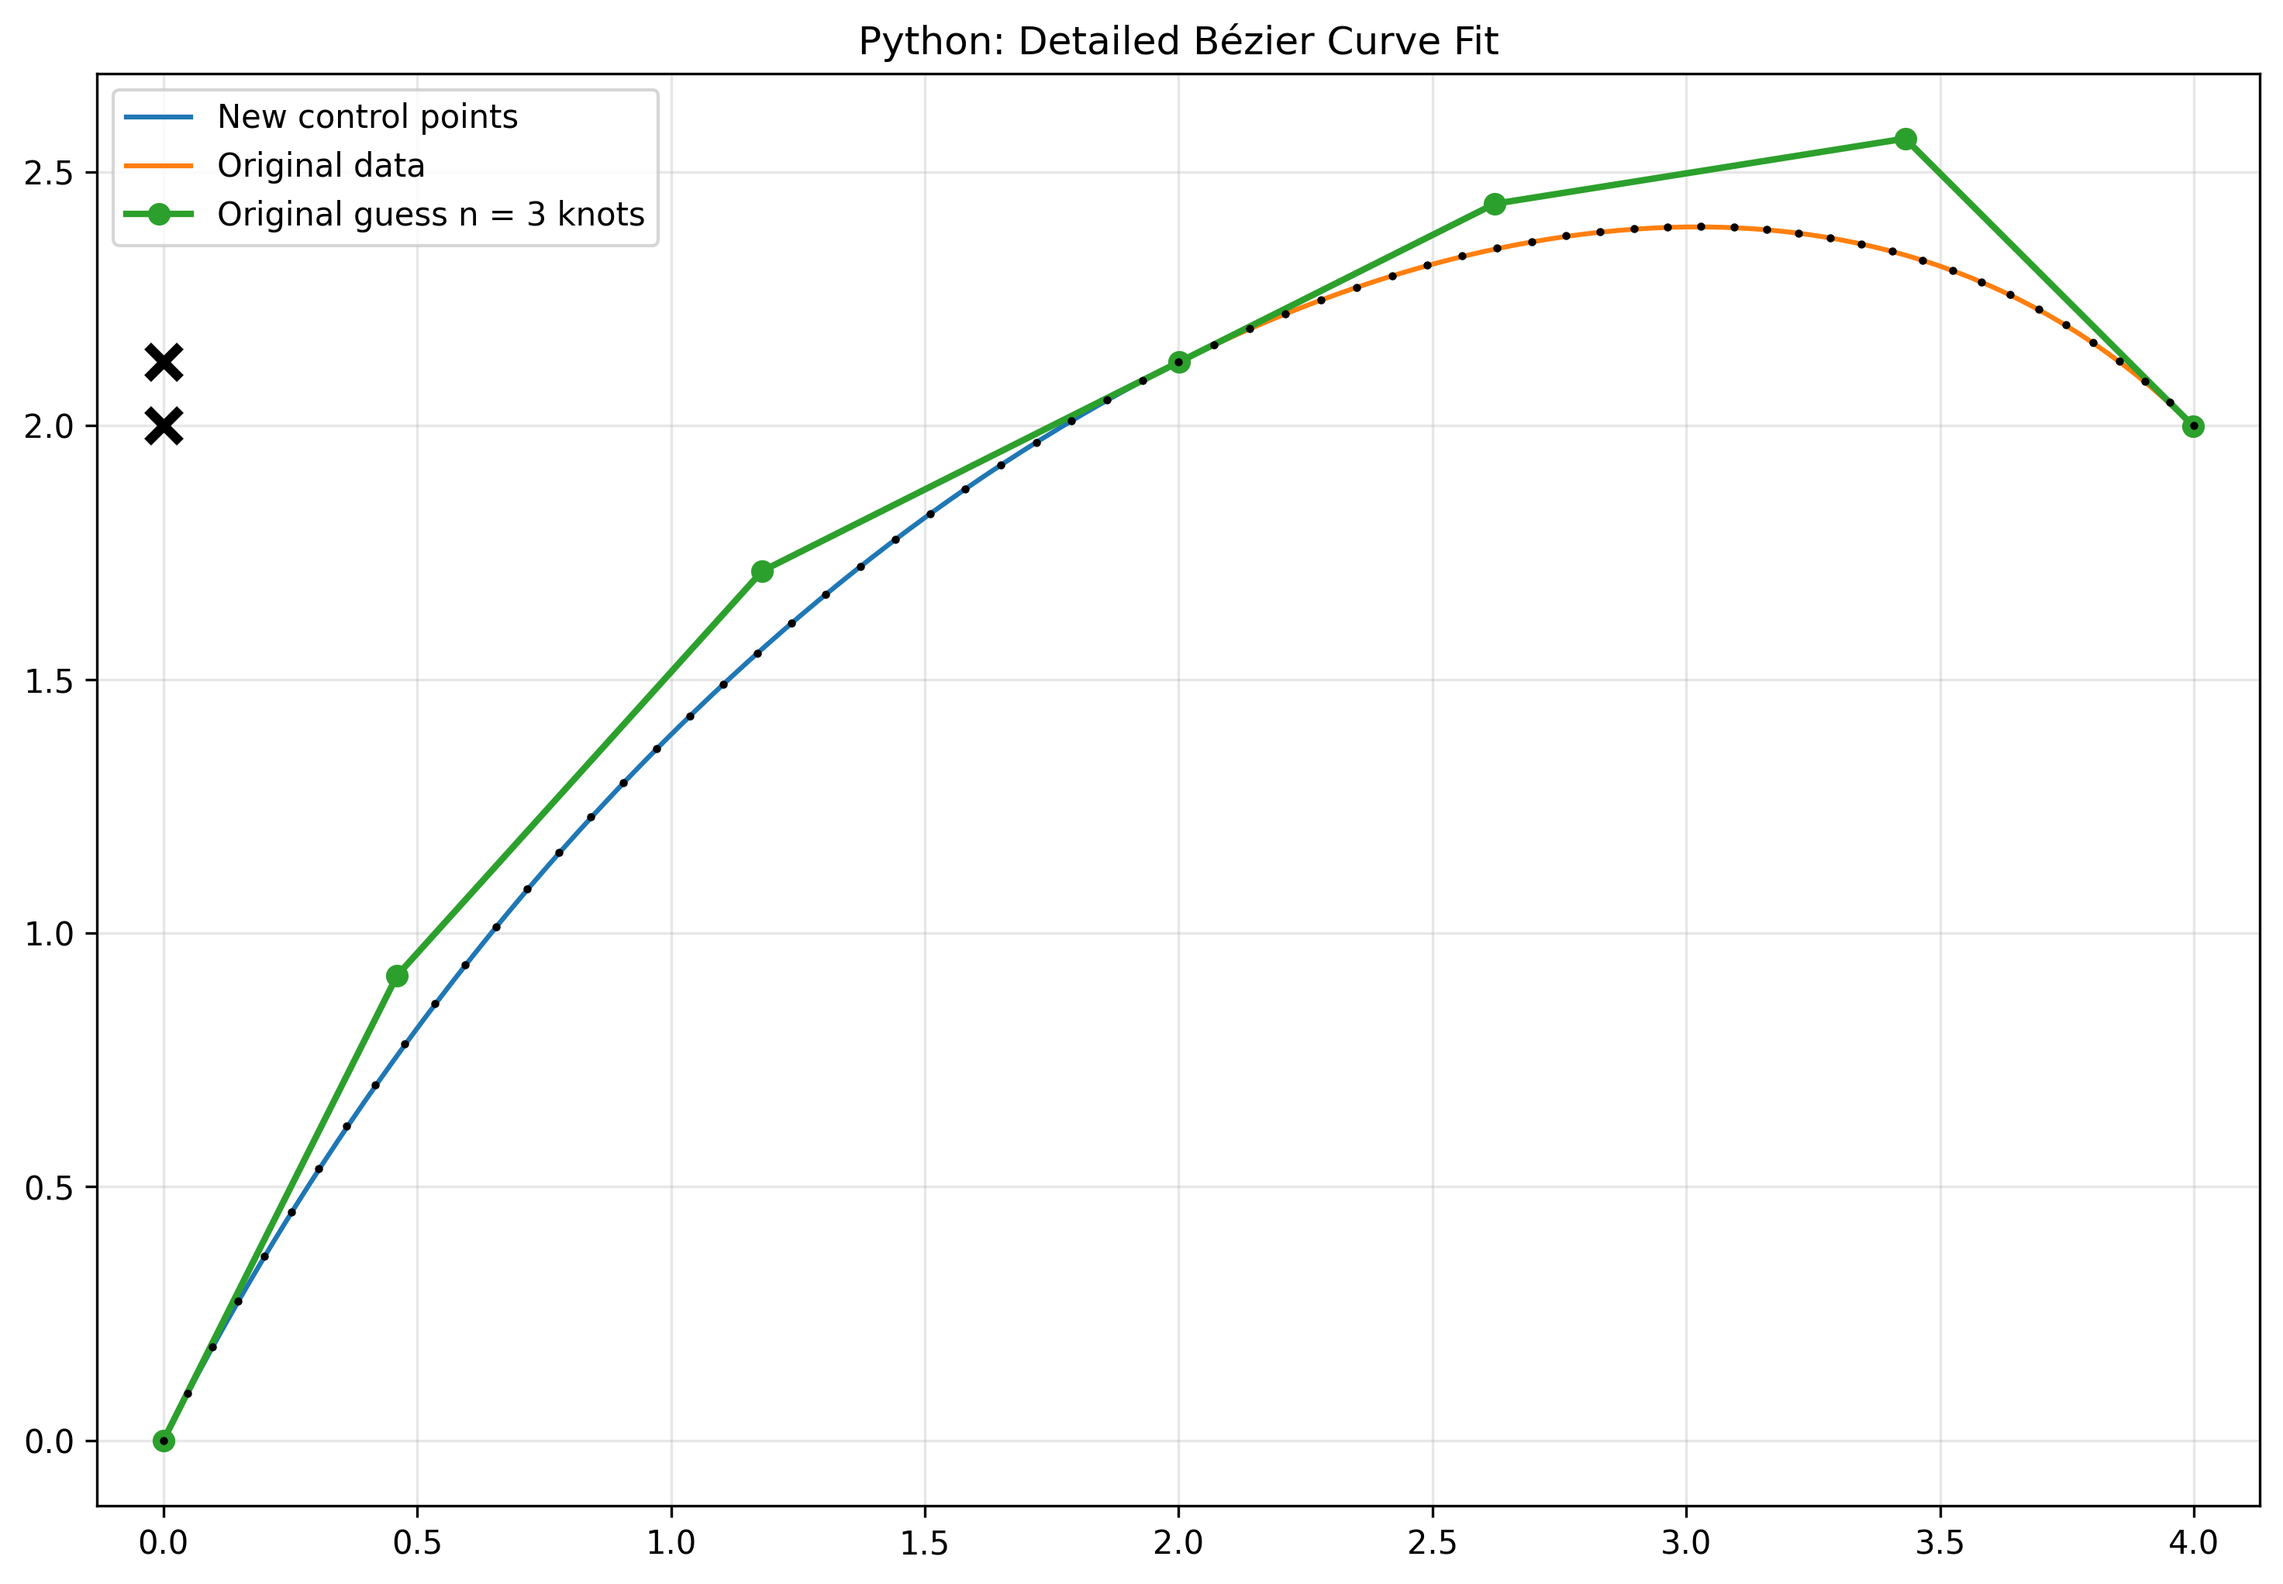
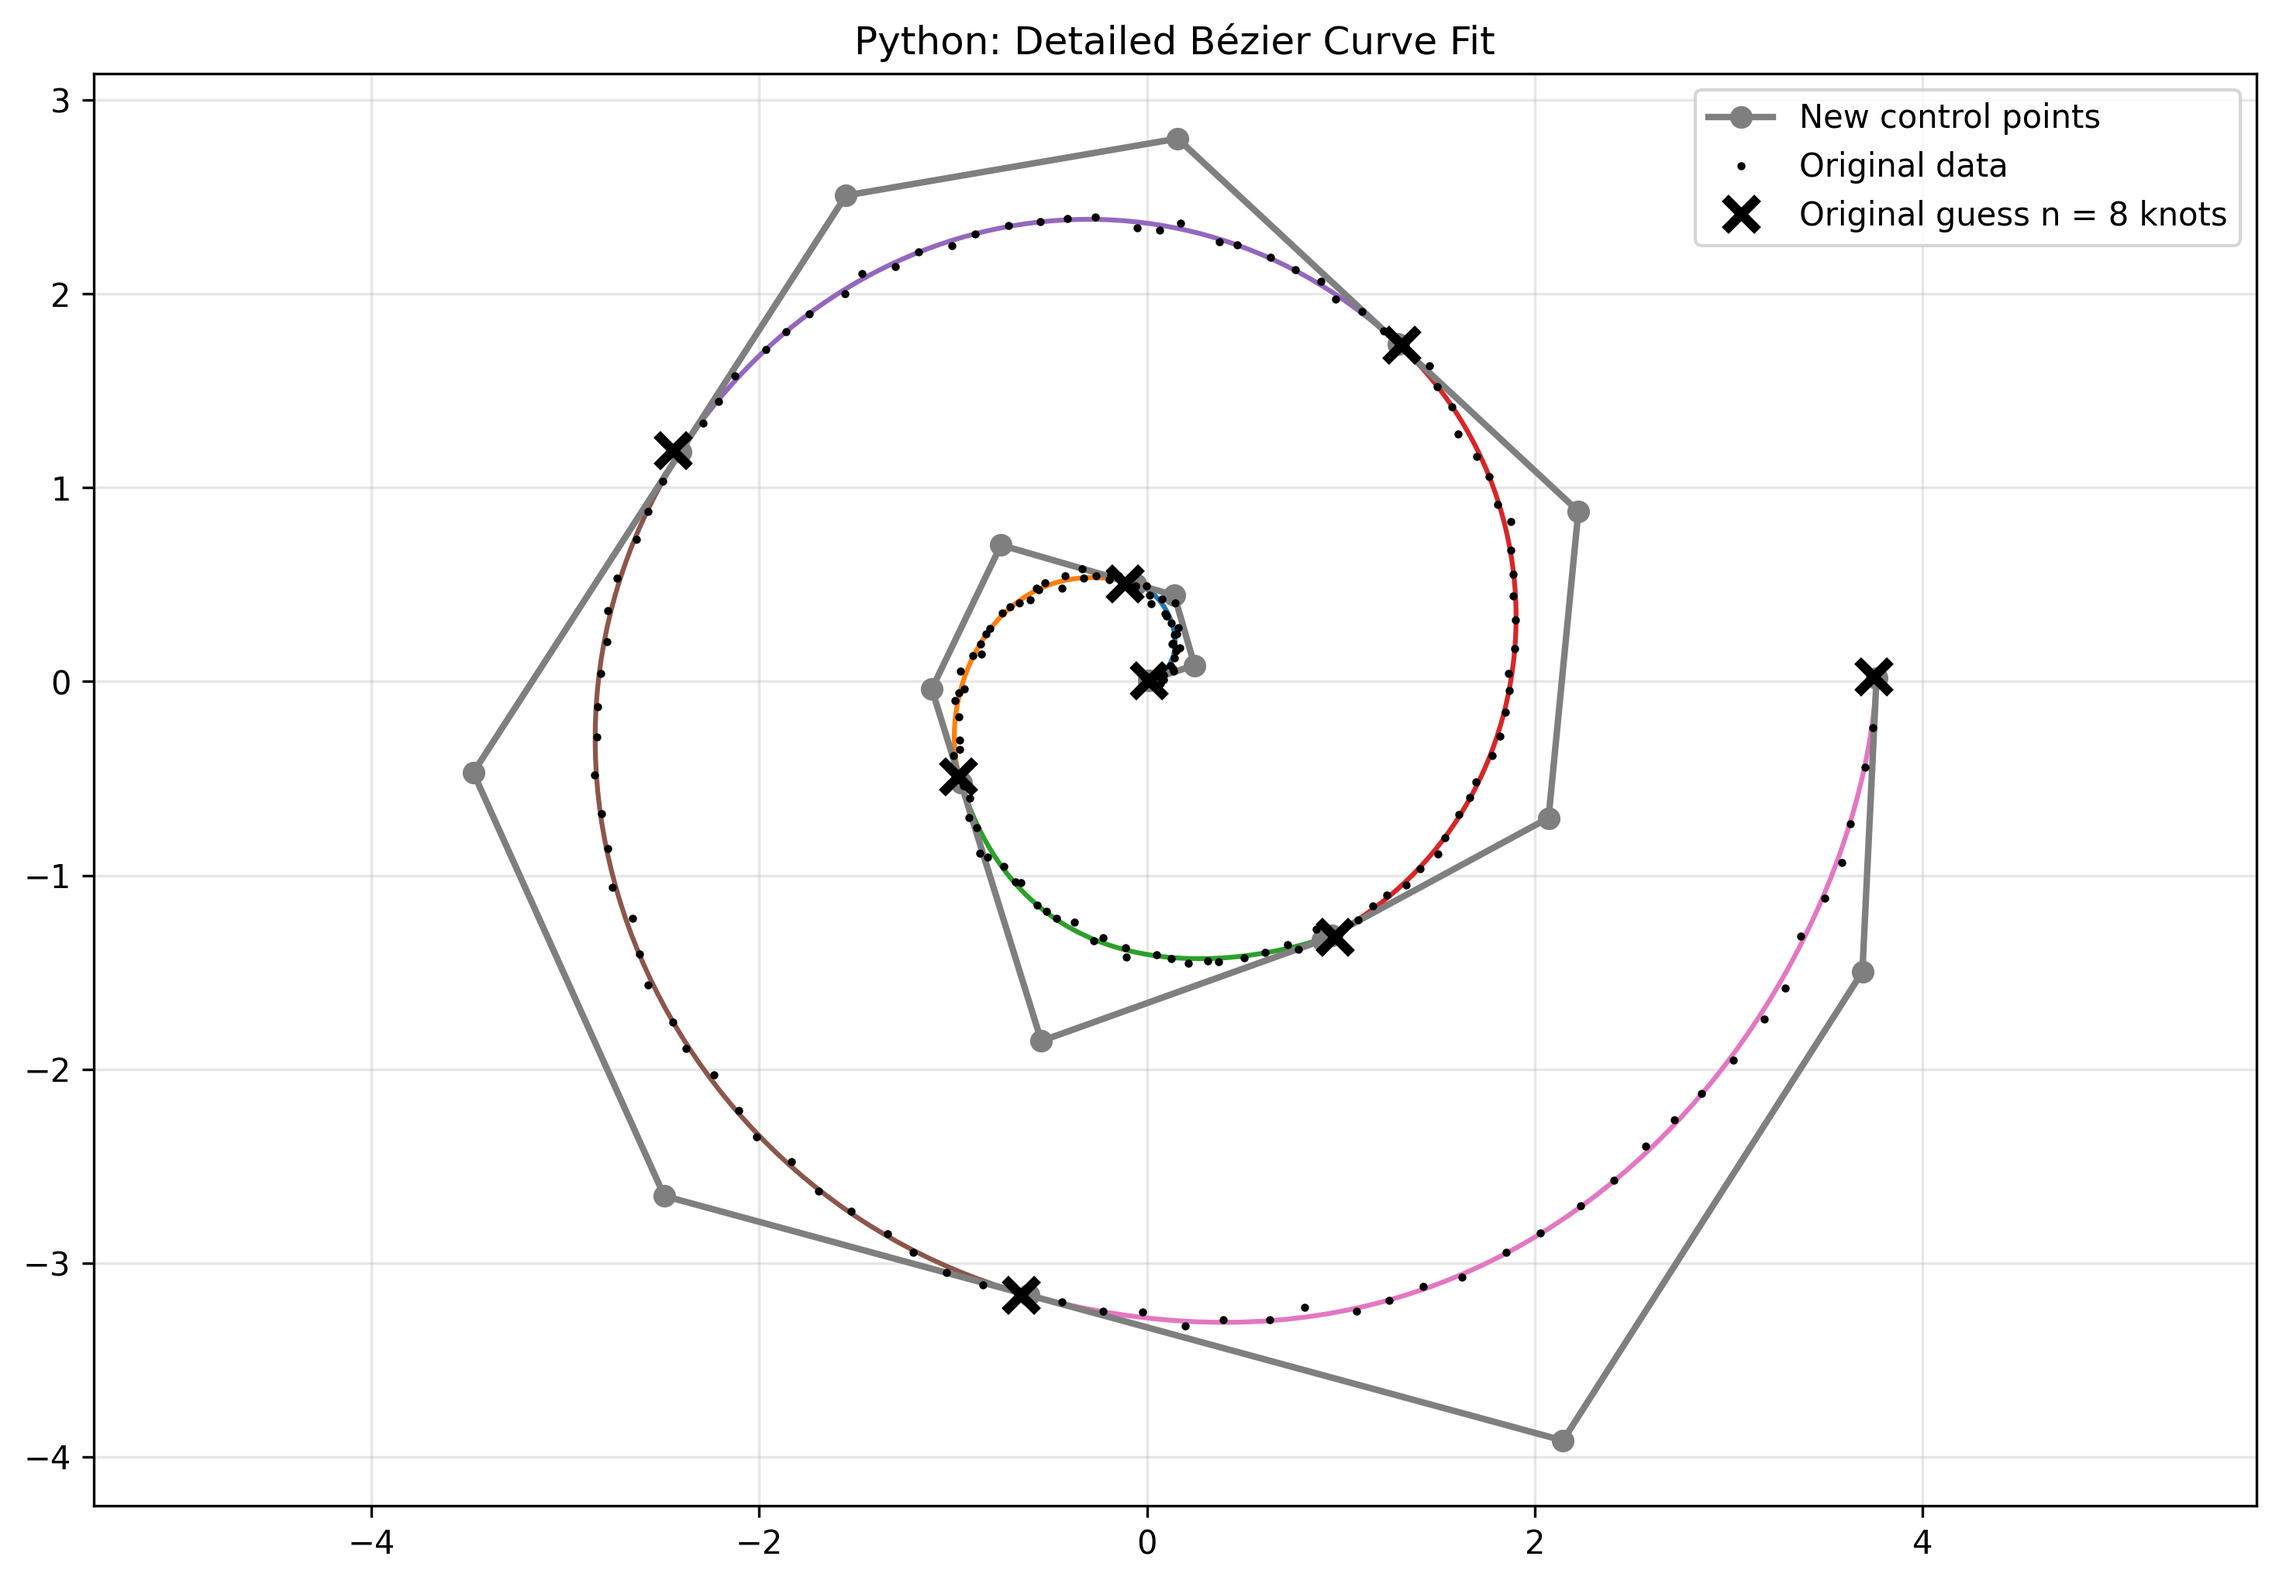
:sparkles: working beautifully

diff --git a/scripts/BezierFitDemo_clean.py b/scripts/BezierFitDemo_clean.py
@@ -10,25 +10,18 @@ from iguess0 import iguess0
 from DrawBezierCurve import drawBezierCurve
 from cubicBezierToPolyline import cubicBezierToPolyline
 
-def BezierFitDemo_final():
+def BezierFitDemo_clean():
     # Demonstrate Bezier curve fit
     demo = 1
     k = None
 
     if demo == 1:
-        # Create a more complex trajectory with 200 points for robotics testing
-        t = np.linspace(0, 4*np.pi, 200)
-        
-        # Create a spiral-like trajectory with some noise (simulating real robot data)
-        np.random.seed(42)  # For reproducible results
-        noise_x = np.random.normal(0, 0.02, 200)
-        noise_y = np.random.normal(0, 0.02, 200)
-        
-        x = t * np.cos(t) * 0.3 + noise_x
-        y = t * np.sin(t) * 0.3 + noise_y
-        
-        Q = np.column_stack([x, y])
-        n = 8  # More knot points for complex trajectory
+        C = np.array([[0, 0],
+                      [1, 2],
+                      [3, 3],
+                      [4, 2]])
+        Q = cubicBezierToPolyline(C, 65)
+        n = 3  # Starting number of knot points
         
     print(f"Demo: {demo}, n: {n}")
     print(f"Q shape: {Q.shape[0]}x{Q.shape[1]}")
@@ -50,7 +43,7 @@ def BezierFitDemo_final():
     plt.figure(figsize=(10, 8))
     poplt(GOC, Qt)
     plt.title('Python: Plot of SGO curve')
-    plt.savefig('/home/jardeldyonisio/PiecewiseG1BezierFit/python_sgo_curve.png', dpi=300, bbox_inches='tight')
+    plt.savefig('/home/jardeldyonisio/PiecewiseG1BezierFit/python_sgo_curve_clean.png', dpi=300, bbox_inches='tight')
     print("Saved Python SGO curve plot")
 
     # Get the Bézier control points of the curve fit
@@ -62,19 +55,17 @@ def BezierFitDemo_final():
     for i in range(0, len(Cnew)-2, 3):
         if i+3 < len(Cnew):
             drawBezierCurve(Cnew[i:i+4])   # Fitted cubic Bézier segment
-
-    hc = plt.plot(Cnew[:,0], Cnew[:,1], 'o-', label='New control points', linewidth=2, markersize=6)
+    
     ho = plt.plot(Q[:,0], Q[:,1], 'k.', label='Original data', markersize=3)
     hn = plt.plot(P[:,0], P[:,1], 'kx', markersize=10, markeredgewidth=3, label=f'Original guess n = {n} knots')
-
-    plt.legend()
+    hc = plt.plot(Cnew[:,0], Cnew[:,1], 'o-', label='New control points', linewidth=2, markersize=6)
+    
+    plt.legend(['Original data', f'Original guess n = {n} knots', 'New control points'])
     plt.title('Python: Detailed Bézier Curve Fit')
     plt.grid(True, alpha=0.3)
     plt.axis('equal')
-    plt.savefig('/home/jardeldyonisio/PiecewiseG1BezierFit/python_detailed_fit.png', dpi=300, bbox_inches='tight')
+    plt.savefig('/home/jardeldyonisio/PiecewiseG1BezierFit/python_detailed_fit_clean.png', dpi=300, bbox_inches='tight')
     print("Saved Python detailed fit plot")
-    
-    plt.show()
 
 if __name__ == '__main__':
-    BezierFitDemo_final()
+    BezierFitDemo_clean()
